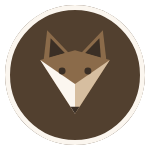
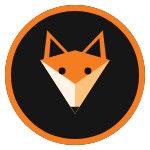
Fox Company brand: orange fox on black
Recolor the brand kit: orange fox with cream/peach cheeks on a black
background, white FOX and orange COMPANY wordmark, black low-poly banner
with orange shards; light-background variants keep the orange fox.

Claude-Session: https://claude.ai/code/session_013GFMsLkCbdjvRREvxq4Re3

diff --git a/brand/fox-company/make_brand.py b/brand/fox-company/make_brand.py
@@ -11,8 +11,9 @@ FONTS = sys.argv[1]           # папка со шрифтами GoogleSans-*.tt
 OUT = sys.argv[2]             # куда писать SVG
 os.makedirs(OUT, exist_ok=True)
 
-C = dict(sand='#F3EADF', cream='#FBF6EF', linen='#EDE2D3', latte='#8B6B4A', caramel='#B89B7A', espresso='#3B2F25',
-         bark='#6E5A47', light='#D6BEA0', night='#1E1813', mocha='#29211A', cocoa='#352B22', roast='#43362B', beige='#D9BF9E')
+# палитра «оранжевая лиса на чёрном»: ключи прежние, чтобы геометрия не менялась
+C = dict(sand='#FFF6EC', cream='#FFF4E8', linen='#F5E6D6', latte='#F57C1F', caramel='#F57C1F', espresso='#141414',
+         bark='#161616', light='#FFC27D', night='#0B0B0B', mocha='#111111', cocoa='#171717', roast='#1E1E1E', beige='#FF9A3D')
 
 def fox(x, y, s, brown=C['latte'], dark=C['espresso'], cream=C['cream'], light=C['light']):
     """Мордочка лисы в квадрате (x, y, s) — координаты из fox_logo.dart."""
@@ -57,7 +58,7 @@ def save(name, svg): open(os.path.join(OUT, name), 'w').write(svg)
 
 def mark_circle(cx, cy, r, ring=None):
     """Круглый знак: лиса на кофейном круге (как во второй версии браузера)."""
-    out = f'<circle cx="{cx}" cy="{cy}" r="{r}" fill="#52402F"/>'
+    out = f'<circle cx="{cx}" cy="{cy}" r="{r}" fill="{C['bark']}"/>'
     if ring: out += f'<circle cx="{cx}" cy="{cy}" r="{r - ring[1] / 2}" fill="none" stroke="{ring[0]}" stroke-width="{ring[1]}"/>'
     s = r * 1.42
     return out + fox(cx - s / 2, cy - s * 0.53, s)
@@ -66,14 +67,14 @@ def mark_circle(cx, cy, r, ring=None):
 S = 1024
 save('icon-light.svg', wrap(S, S, f'<rect width="{S}" height="{S}" rx="230" fill="{C["sand"]}"/>' + fox(S * .17, S * .14, S * .66)))
 save('icon-dark.svg', wrap(S, S, f'<rect width="{S}" height="{S}" rx="230" fill="{C["night"]}"/>' + fox(S * .17, S * .14, S * .66, light=C['beige'])))
-save('icon-circle.svg', wrap(S, S, f'<rect width="{S}" height="{S}" rx="230" fill="{C["sand"]}"/>' + mark_circle(S / 2, S / 2, S * .4)))
+save('icon-circle.svg', wrap(S, S, f'<rect width="{S}" height="{S}" rx="230" fill="{C["night"]}"/>' + mark_circle(S / 2, S / 2, S * .4)))
 
 # 2. Аватар YouTube 800×800 (YouTube обрежет по кругу — всё важное в центре)
 A = 800
-save('youtube-avatar.svg', wrap(A, A, mark_circle(A / 2, A / 2, A * .44, ring=(C['caramel'], 10)), bg=C['sand']))
+save('youtube-avatar.svg', wrap(A, A, mark_circle(A / 2, A / 2, A * .44, ring=(C['caramel'], 12)), bg=C['night']))
 
 # 3. Водяной знак для видео (прозрачный фон)
-save('watermark.svg', wrap(300, 300, mark_circle(150, 150, 140, ring=(C['cream'], 10))))
+save('watermark.svg', wrap(300, 300, mark_circle(150, 150, 140, ring=(C['caramel'], 12))))
 
 # 4. Горизонтальный логотип: знак + FOX COMPANY
 def horizontal(dark_bg):
@@ -99,7 +100,7 @@ save('logo-vertical-dark.svg', vertical(True))
 # 6. Баннер YouTube 2560×1440: низкополигональный «кофейный» фон, всё важное — в безопасной зоне 1546×423 в центре
 BW, BH = 2560, 1440
 rnd = random.Random(7)
-cols = [C['night'], C['mocha'], C['cocoa'], C['roast'], '#2E251D', '#3A2E24']
+cols = [C['night'], C['mocha'], C['cocoa'], C['roast'], '#141414', '#232323']
 step = 160
 pts = {}
 for j in range(-1, BH // step + 2):
@@ -118,8 +119,8 @@ for j in range(-1, BH // step + 1):
 deco = ''
 for _ in range(26):
     x = rnd.choice([rnd.uniform(0, 420), rnd.uniform(BW - 420, BW)]); y = rnd.uniform(0, BH); s = rnd.uniform(30, 110)
-    col = rnd.choice([C['latte'], C['caramel'], C['bark'], C['beige']])
-    deco += f'<polygon points="{x:.0f},{y:.0f} {x + s:.0f},{y + s * .35:.0f} {x + s * .3:.0f},{y + s:.0f}" fill="{col}" opacity="{rnd.uniform(.25, .6):.2f}"/>'
+    col = rnd.choice([C['latte'], C['beige'], '#C85A12', C['light']])
+    deco += f'<polygon points="{x:.0f},{y:.0f} {x + s:.0f},{y + s * .35:.0f} {x + s * .3:.0f},{y + s:.0f}" fill="{col}" opacity="{rnd.uniform(.35, .85):.2f}"/>'
 glow = (f'<defs><radialGradient id="g" cx="50%" cy="50%" r="45%"><stop offset="0" stop-color="{C["latte"]}" stop-opacity=".35"/>'
         f'<stop offset="1" stop-color="{C["latte"]}" stop-opacity="0"/></radialGradient></defs><rect width="{BW}" height="{BH}" fill="url(#g)"/>')
 r = 175; cx0 = BW / 2 - 420; cy0 = BH / 2

diff --git a/brand/fox-company/README.md b/brand/fox-company/README.md
@@ -1,6 +1,6 @@
 # Fox Company — фирменный стиль
 
-Та же геометрическая лиса, что в Fox Browser (`lib/widgets/fox_logo.dart`), палитра «песок и кофе» (`lib/theme.dart`) и шрифт Google Sans. Текст в SVG переведён в контуры, поэтому логотип выглядит одинаково везде, даже без установленного шрифта.
+Та же геометрическая лиса, что в Fox Browser (`lib/widgets/fox_logo.dart`), но оранжевая на чёрном фоне, и шрифт Google Sans. Текст в SVG переведён в контуры, поэтому логотип выглядит одинаково везде, даже без установленного шрифта.
 
 ## Файлы
 | Файл | Где использовать |
@@ -16,14 +16,13 @@
 ## Цвета
 | Цвет | HEX |
 |---|---|
-| Песок (фон) | `#F3EADF` |
-| Сливки | `#FBF6EF` |
-| Латте (лиса) | `#8B6B4A` |
-| Карамель | `#B89B7A` |
-| Бежевый | `#D9BF9E` |
-| Кофейный круг | `#52402F` |
-| Эспрессо (текст) | `#3B2F25` |
-| Ночь (тёмный фон) | `#1E1813` |
+| Оранжевый (лиса, акценты) | `#F57C1F` |
+| Светло-оранжевый (надпись COMPANY на тёмном) | `#FF9A3D` |
+| Персиковая щека | `#FFC27D` |
+| Сливочная щека, текст FOX на тёмном | `#FFF4E8` |
+| Чёрный фон | `#0B0B0B` |
+| Круг под лисой | `#161616` |
+| Тёмные детали (уши, глаза, нос), текст на светлом | `#141414` |
 
 ## Пересобрать
 ```bash
